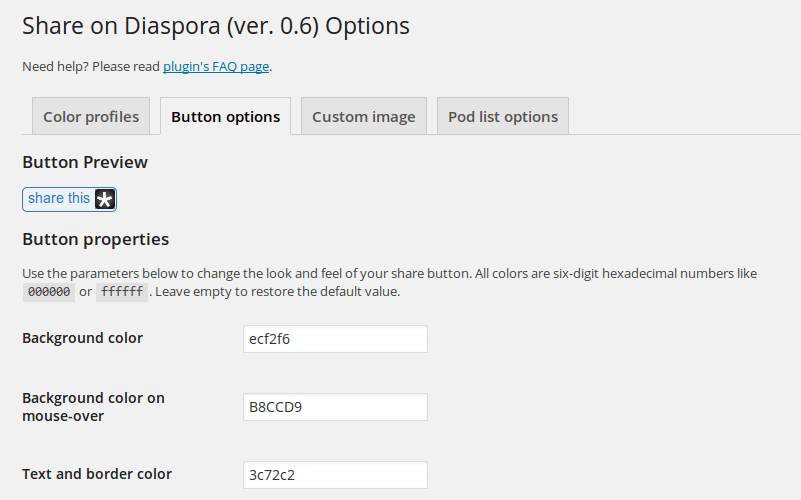
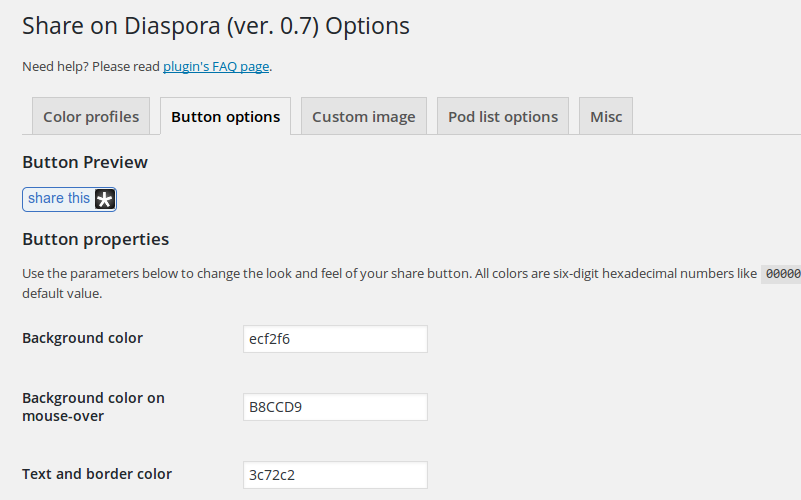
Updated screenshots

diff --git a/README.md b/README.md
@@ -26,7 +26,7 @@ Please note, that some translations might be incomplete and lack latest changes.
 
 # Screenshots
 1. The "Share on D*" button under the default "Hello World"
-post in "Twenty Thirteen" theme.
+post in "Twenty Fifteen" theme.
 ![](https://github.com/ciubotaru/share-on-diaspora/blob/master/assets/screenshot-1.png?raw=true)
 2. Choose a Diaspora pod from the list or type it in the text field.
 ![](https://github.com/ciubotaru/share-on-diaspora/blob/master/assets/screenshot-2.png?raw=true)
@@ -41,6 +41,8 @@ page, 'Custom Image' tab.
 ![](https://github.com/ciubotaru/share-on-diaspora/blob/master/assets/screenshot-6.png?raw=true)
 7. To choose the pods to be included in the drop-down list, go to the Settings page, 'Pod list options' tab.
 ![](https://github.com/ciubotaru/share-on-diaspora/blob/master/assets/screenshot-7.png?raw=true)
+8. To show/hide the button in RSS feeds, go to the Settings page, 'Misc' tab.
+![](https://github.com/ciubotaru/share-on-diaspora/blob/master/assets/screenshot-8.png?raw=true)
 
 # Installation
 1. Get the latest snapshot of master branch.
